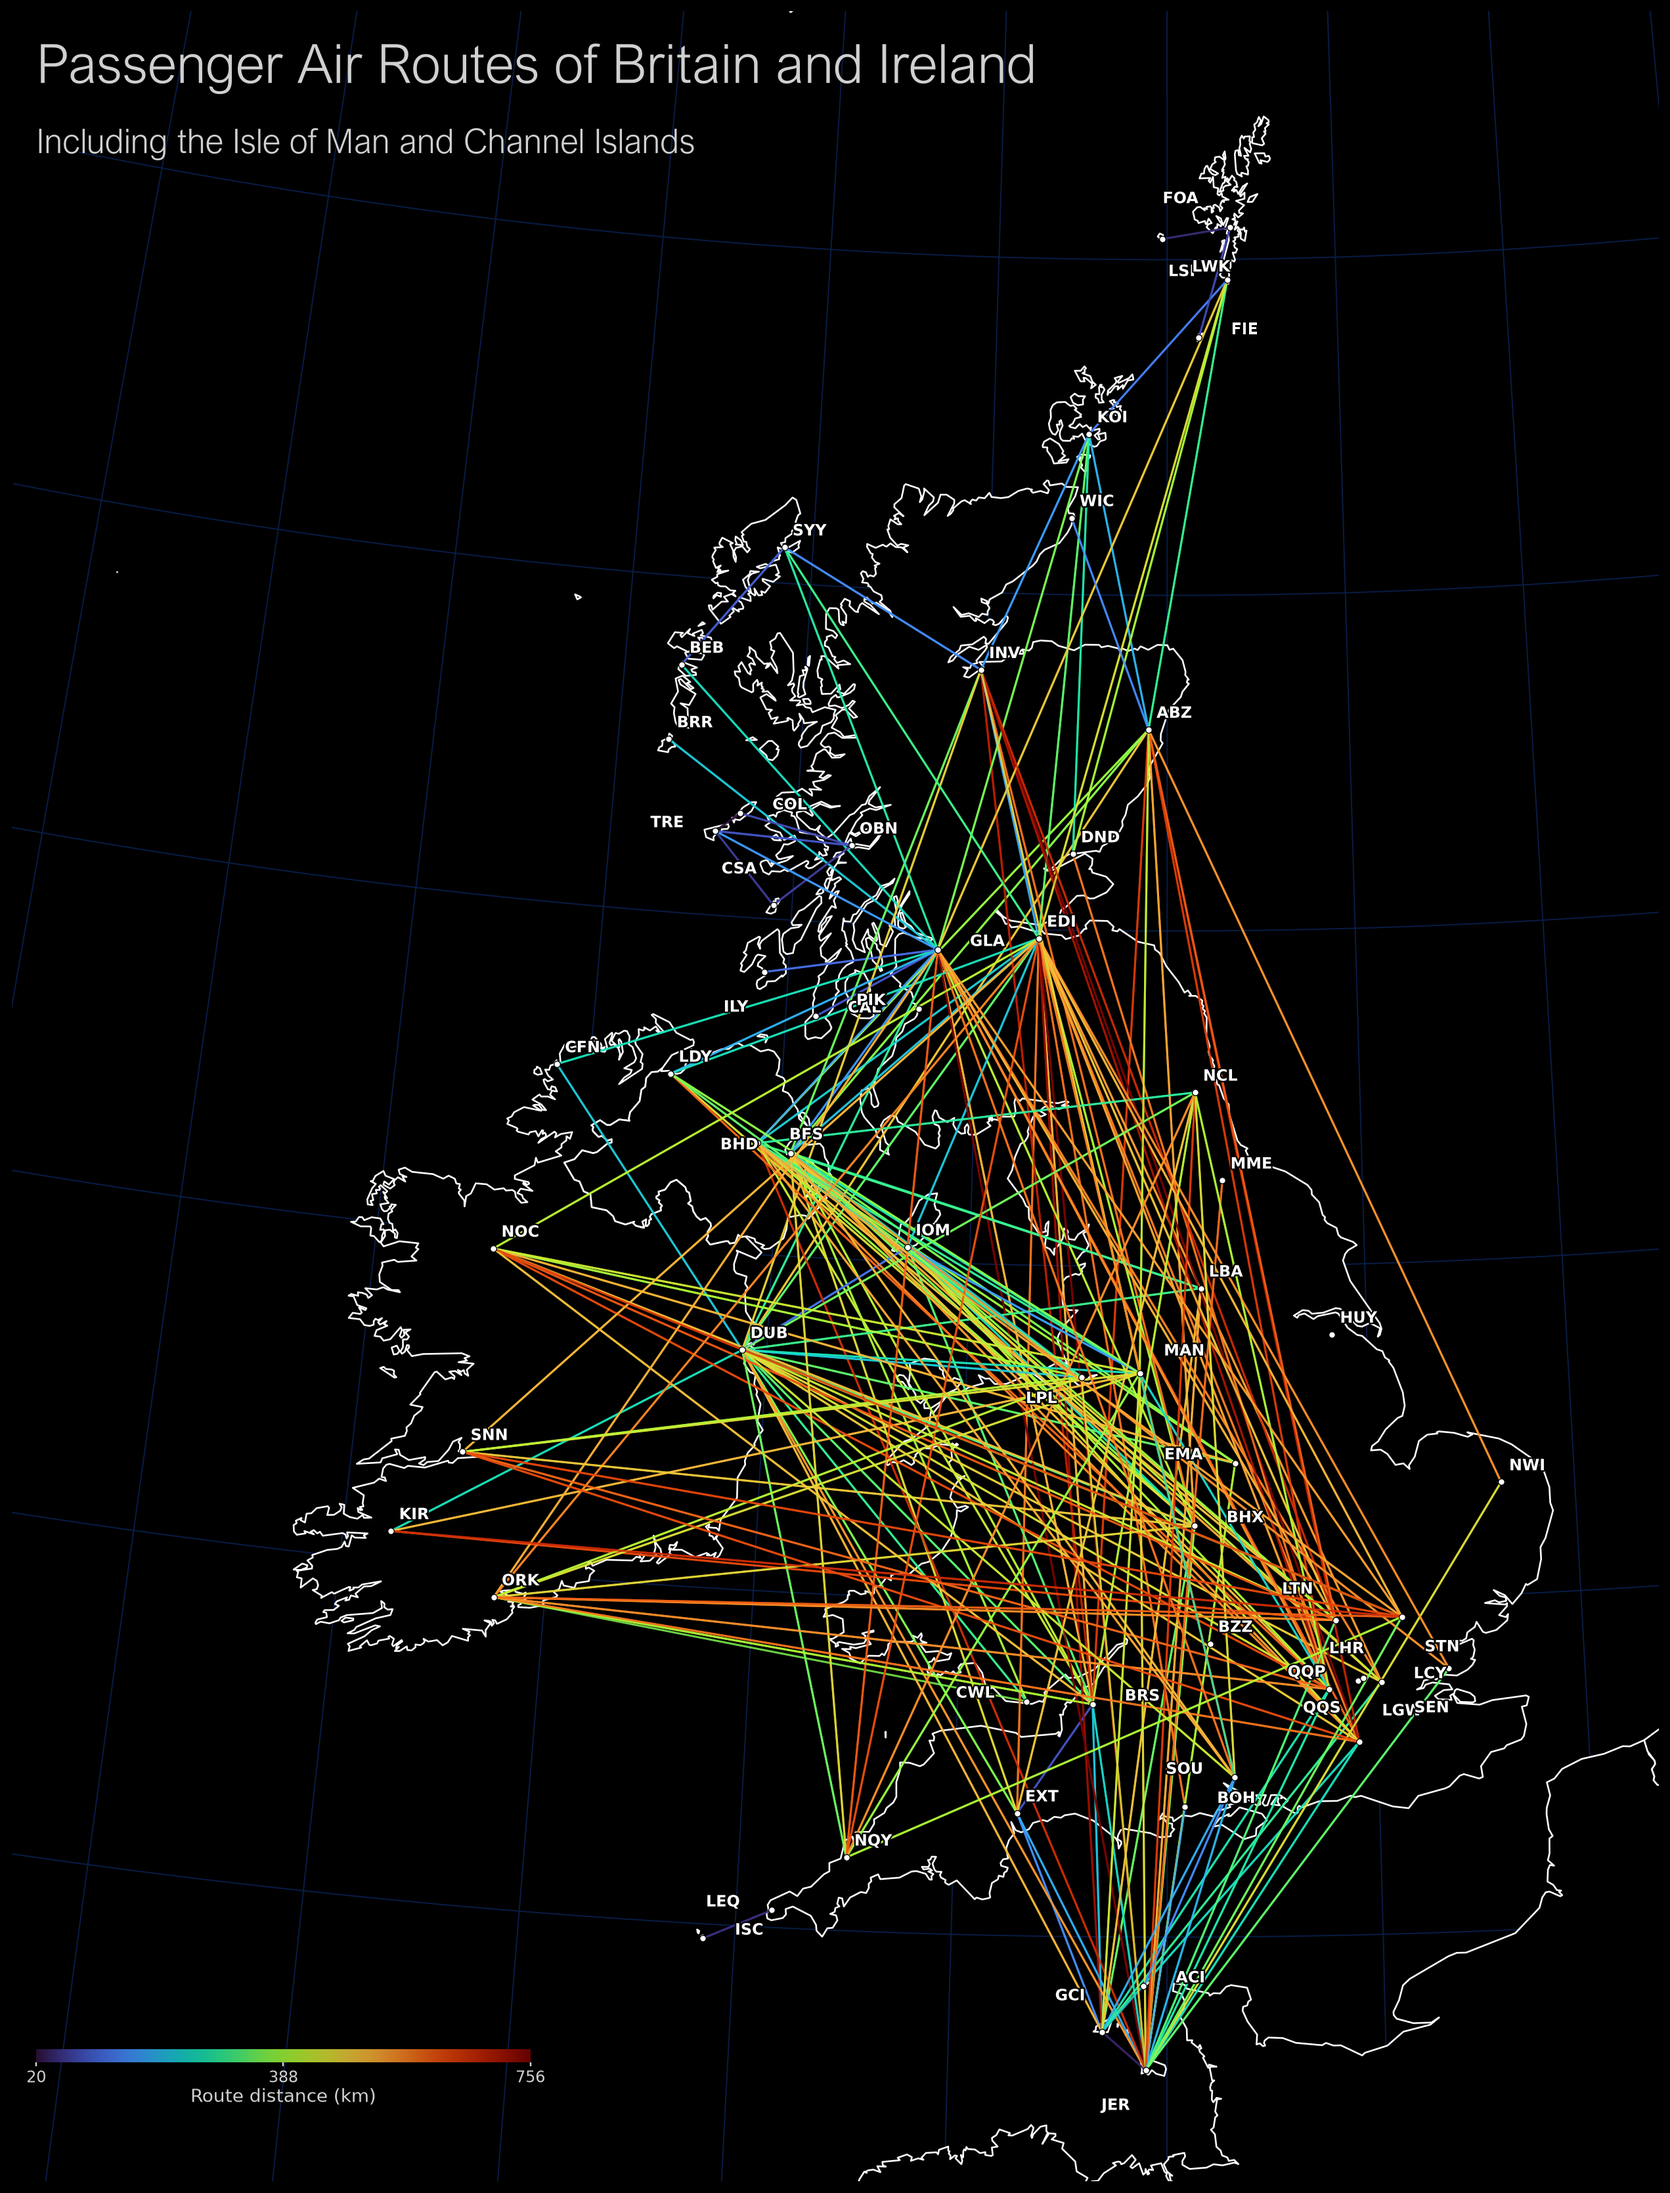
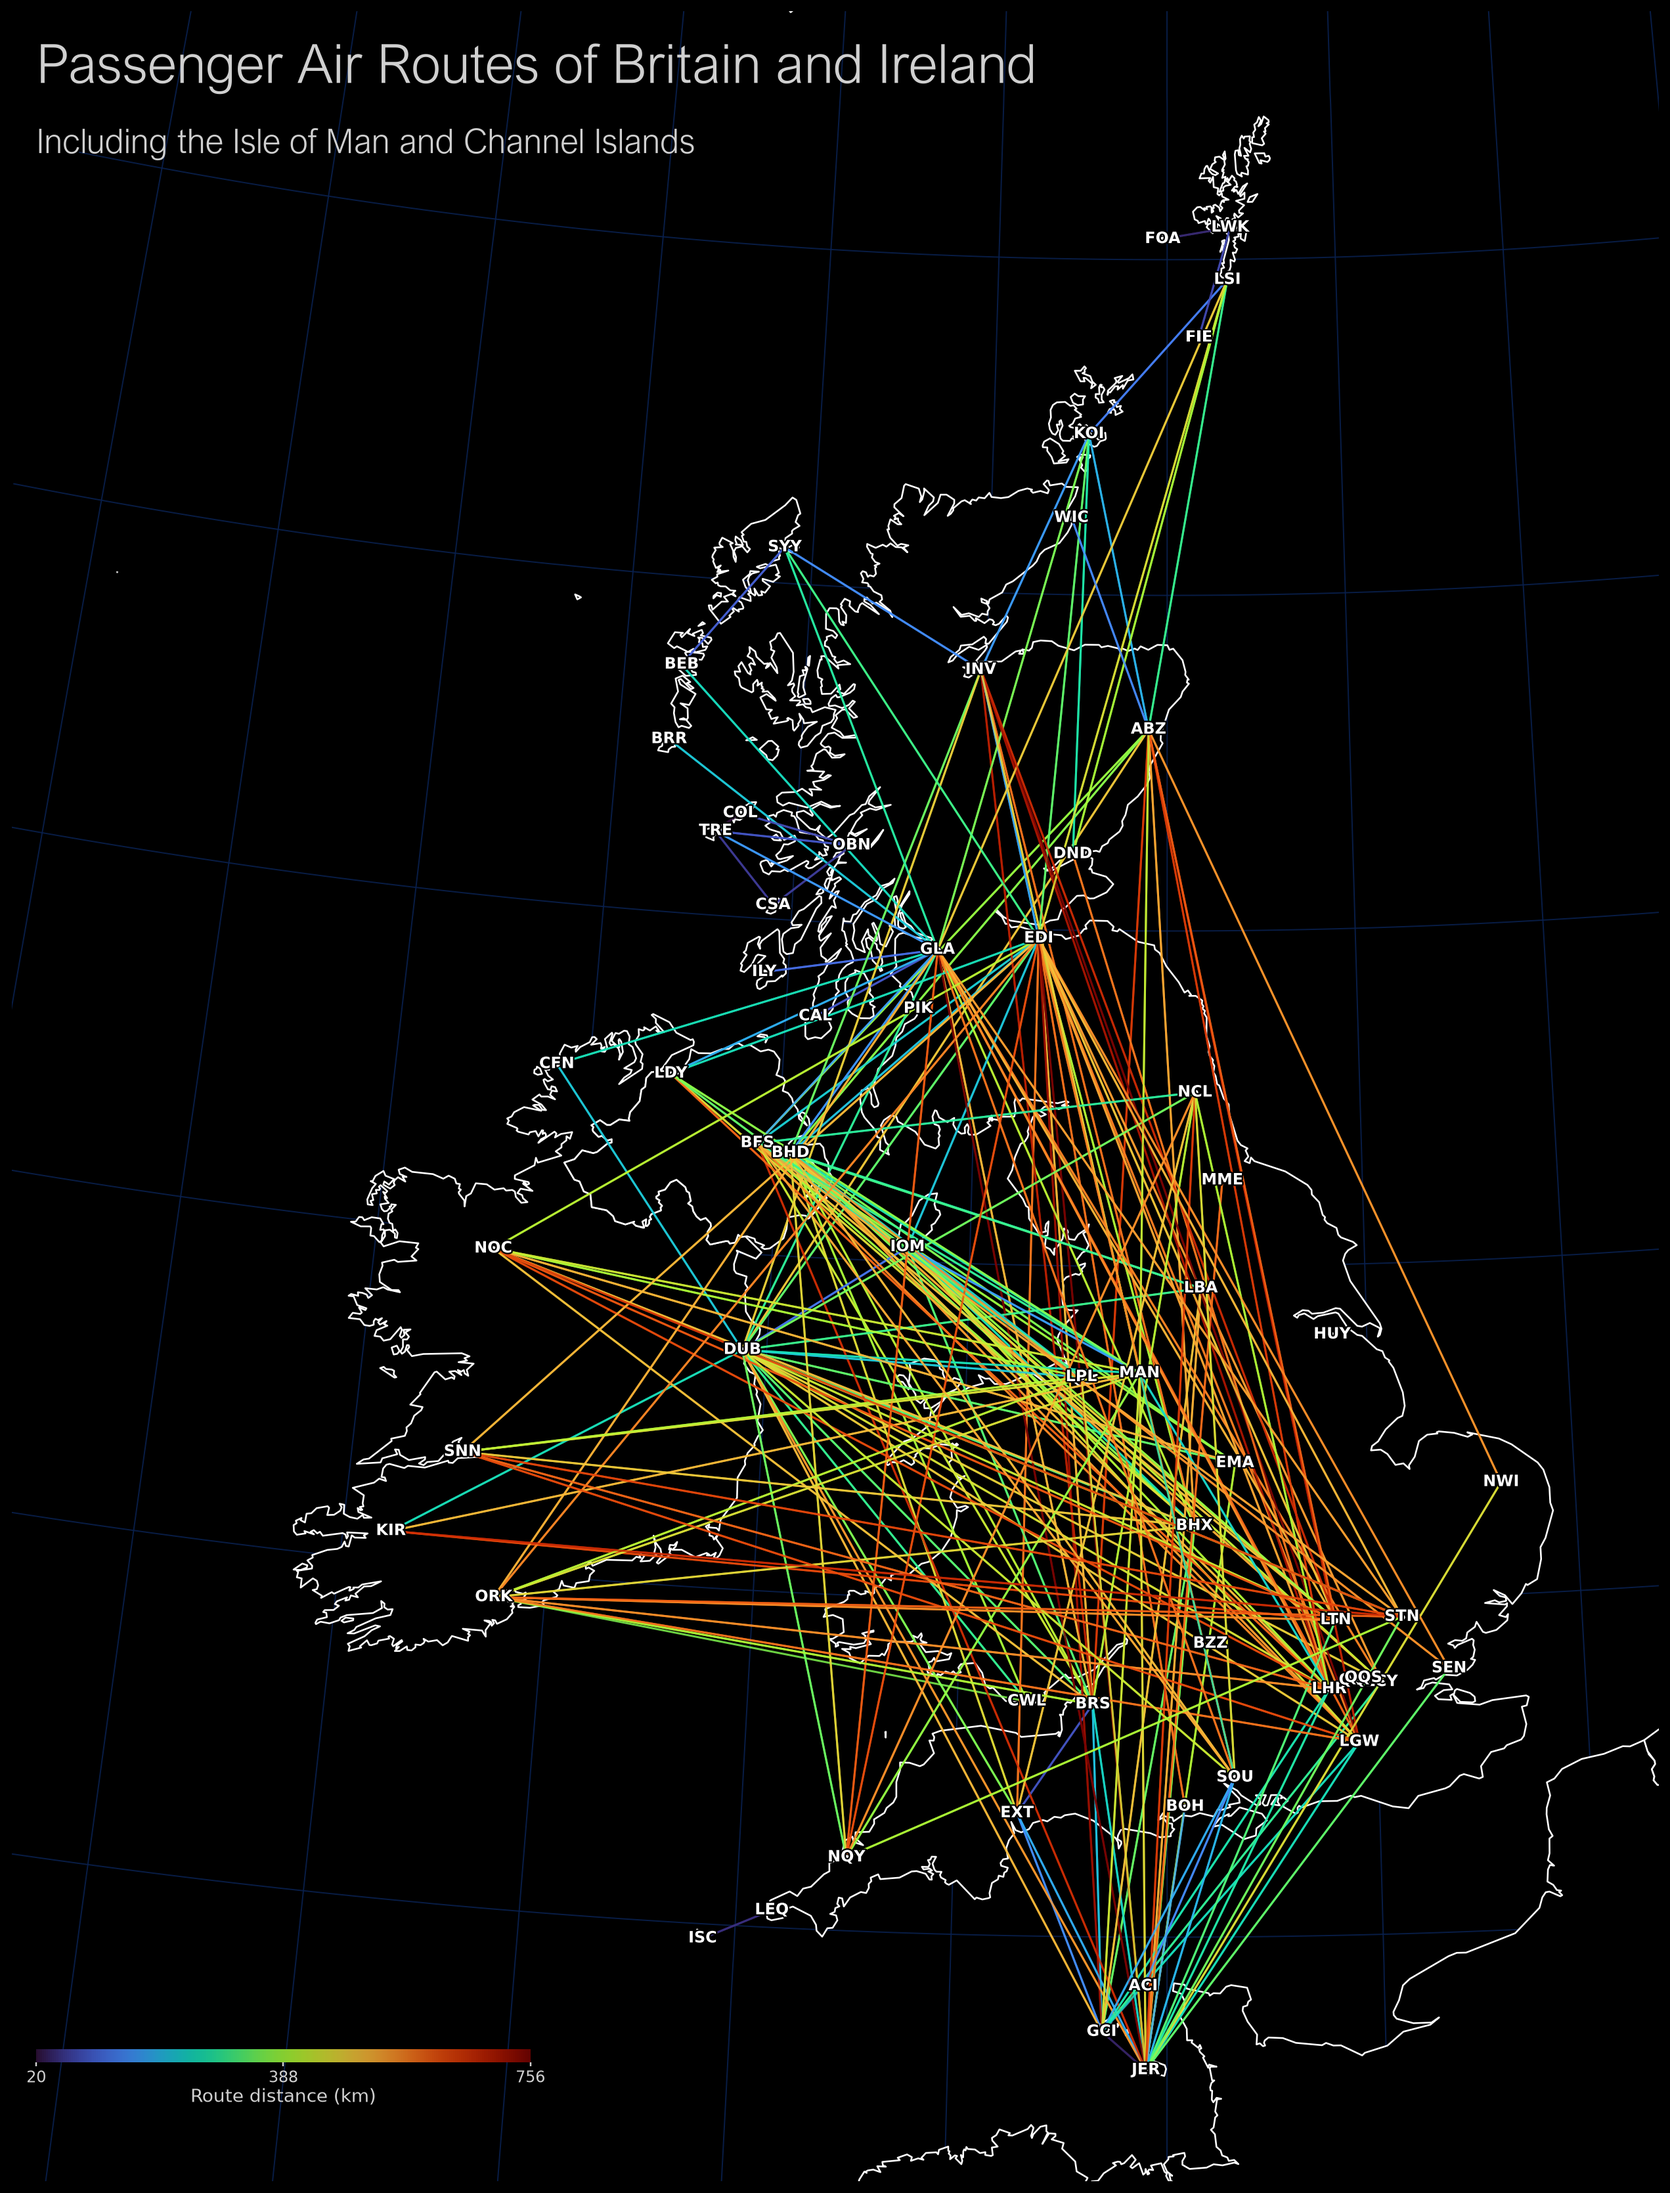
Center airport labels on their locations

diff --git a/map_routes.py b/map_routes.py
@@ -160,35 +160,10 @@ def main() -> None:
     airport_xy = np.asarray(list(projected_airports.values()))
     ax.scatter(airport_xy[:, 0], airport_xy[:, 1], s=10, c="#ffffff",
                edgecolors="#050505", linewidths=0.45, zorder=9)
-    codes = list(projected_airports)
-    coords = np.asarray([projected_airports[code] for code in codes])
-    label_offsets = {code: (4, 4) for code in codes}
-    close_groups = []
-    unseen = set(range(len(codes)))
-    while unseen:
-        group = {unseen.pop()}
-        frontier = list(group)
-        while frontier:
-            i = frontier.pop()
-            neighbors = {j for j in unseen if np.linalg.norm(coords[i] - coords[j]) < 50_000}
-            unseen -= neighbors
-            group |= neighbors
-            frontier.extend(neighbors)
-        if len(group) > 1:
-            close_groups.append(sorted(group))
-    for group in close_groups:
-        for rank, i in enumerate(group):
-            angle = 2 * np.pi * rank / len(group)
-            label_offsets[codes[i]] = (16 * np.cos(angle), 16 * np.sin(angle))
-    # Keep these nearby airports visually ordered west-to-east on the map.
-    label_offsets["MAN"] = (12, 7)
-    label_offsets["LPL"] = (-12, -7)
-
     for code, (x, y) in projected_airports.items():
-        dx, dy = label_offsets[code]
         ax.annotate(
-            code, (x, y), xytext=(dx, dy), textcoords="offset points",
-            ha="left" if dx >= 0 else "right", va="bottom" if dy >= 0 else "top",
+            code, (x, y), xytext=(0, 0), textcoords="offset points",
+            ha="center", va="center",
             color="white", fontsize=7.8, fontweight="bold", zorder=10,
             path_effects=[withStroke(linewidth=1.5, foreground="#000000")],
         )

diff --git a/README.md b/README.md
@@ -2,7 +2,7 @@
 
 ![Passenger Air Routes of Britain and Ireland](british_isles_air_routes.png)
 
-`map_routes.py` creates `british_isles_air_routes.png`: white coastlines for the British Isles and nearby land visible in the map frame on black, with passenger routes between airports inside the British Isles. Routes follow spherical great-circle arcs, use a uniform 1-point line width, and are coloured by dataset distance (blue to red), with a horizontal distance scale beneath the title. Airport markers are labelled with their IATA codes. The map uses British National Grid (OSGB36 / Transverse Mercator) with dark-blue latitude and longitude lines beneath the land fill.
+`map_routes.py` creates `british_isles_air_routes.png`: white coastlines for the British Isles and nearby land visible in the map frame on black, with passenger routes between airports inside the British Isles. Routes follow spherical great-circle arcs, use a uniform 1-point line width, and are coloured by dataset distance (blue to red), with a horizontal distance scale beneath the title. Airport markers are labelled with their IATA codes centered directly on the airport coordinates. The map uses British National Grid (OSGB36 / Transverse Mercator) with dark-blue latitude and longitude lines beneath the land fill.
 
 Run from this directory with [uv](https://docs.astral.sh/uv/):
 
